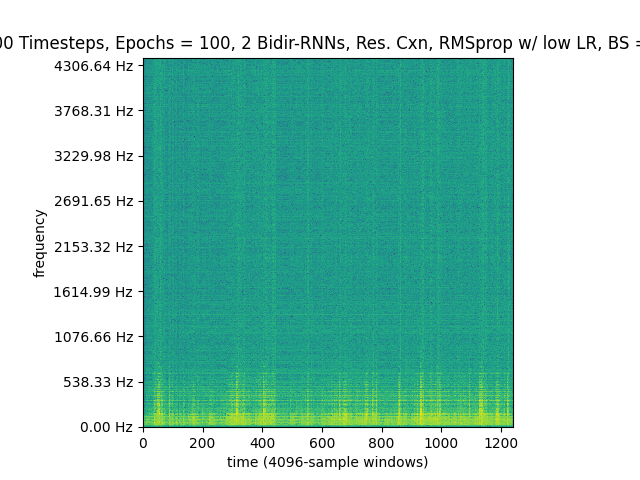
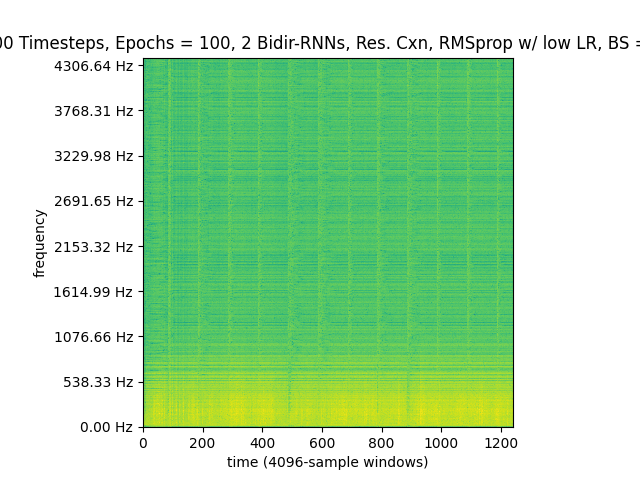
drnn curr best eval

diff --git a/restore_with_drnn.py b/restore_with_drnn.py
@@ -39,7 +39,7 @@ def run_top_gs_result(num_str, best_config,
     train_epochs = best_config['epochs']
     # # EVAL CHANGE - change back
     if low_time_steps:
-        train_epochs = 30 # 10 # 100
+        train_epochs = 150 # 10 # 100
     # train_epochs = 15 # TEMP - optimize learning
     # TEMP - exploit high epochs
     if train_epochs > 10:
@@ -66,9 +66,12 @@ def run_top_gs_result(num_str, best_config,
     training_arch_config['bidir'] = best_config['bidir']
     training_arch_config['rnn_dropout'] = best_config['rnn_dropout']
     training_arch_config['bn'] = best_config['bn']
-    if use_basis_vectors:
-        training_arch_config['bidir'] = False
-        training_arch_config['rnn_res_cntn'] = False
+    # EVAL CHANGES
+    training_arch_config['bidir'] = False
+    training_arch_config['rnn_res_cntn'] = False
+    # if use_basis_vectors:
+    #     training_arch_config['bidir'] = False
+    #     training_arch_config['rnn_res_cntn'] = False
     l1_reg = None
     # # EVAL CHANGE
     # l1_reg = 0.001
@@ -173,7 +176,8 @@ def main():
     # recent_model_path = 'brahms_restore_ml/drnn/recent_model_111of144_earlystop'    # restore from curr best
     # recent_model_path = 'brahms_restore_ml/drnn/recent_model_3of4'    # restore from best in small gs
     # infer_output_path = 'brahms_restore_ml/drnn/output_restore/'
-    infer_output_path = 'brahms_restore_ml/drnn/output_restore_gs3072_loopnoise/'    # eval, do_curr_best, 3072 combos, looped noise
+    # infer_output_path = 'brahms_restore_ml/drnn/output_restore_gs3072_loopnoise/'    # eval, do_curr_best, 3072 combos, looped noise
+    infer_output_path = 'brahms_restore_ml/drnn/output_restore_151of3072_eval/'    # eval, tweaks curr_best
     brahms_path = 'brahms.wav'
 
     # To run best model configs, data_from_numpy == True & mode == train
@@ -181,8 +185,8 @@ def main():
     # # F35 LSTM
     # top_result_nums = [72, 128, 24, 176, 8, 192, 88, 112]
     # F35 WB
-    # top_result_nums = [149] # temp - do 1 run # [1488, 1568, 149, 1496, 1680, 86, 151, 152]
-    top_result_nums = [1488, 1568, 149, 1496, 1680, 86, 151, 152] 
+    top_result_nums = [151] # temp - do 1 run # [1488, 1568, 149, 1496, 1680, 86, 151, 152]
+    # top_result_nums = [1488, 1568, 149, 1496, 1680, 86, 151, 152] 
     # # PC WB
     # top_result_nums = [997, 1184, 1312, 1310, 1311, 1736]
     # # BVS Architectures
